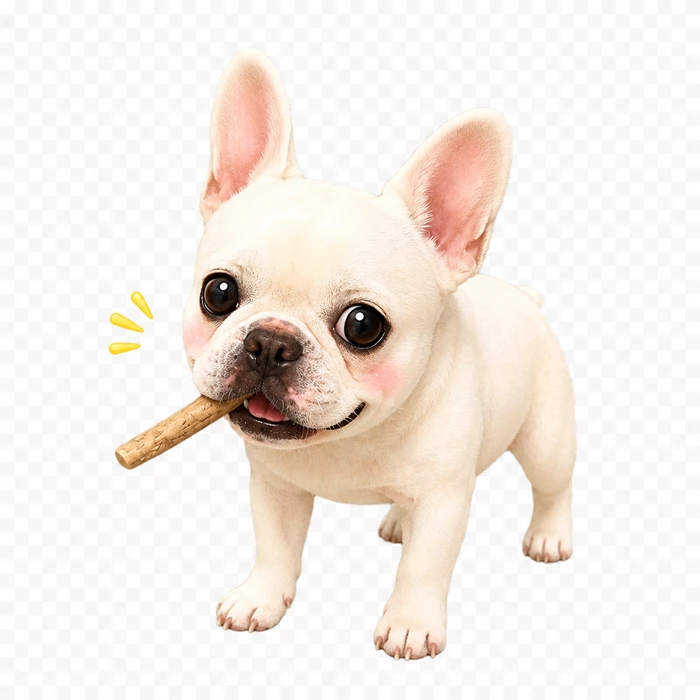
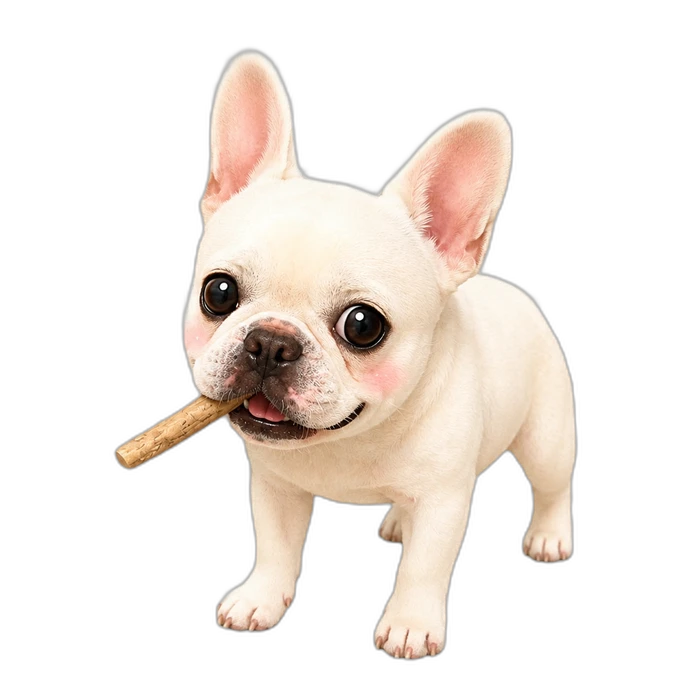
はみがき・IKEA・おるすばん(新規SSRアイテム)追加、画像名ズレ修正 (#144)
* はみがき画像の透過抜けを修正

元画像がRGB(アルファなし)のまま保存されており、未取得時のbrightness(0)
シルエット処理で画像全体が真っ黒な四角になっていた。背景除去して
透過PNG化した上でwebpに保存し直した。

* Add IKEA / おるすばん items with new くみたてボーナス and 落下速度アップ skills

- IKEA (SSR): catching extends a window (stacking, no cap) during
  which any catch increments a counter; on expiry, count x10pt is
  awarded at once
- おるすばん (SSR): timed fall-speed boost, reusing the existing
  fall-speed ref shared with interior_kinoko_azubee

---------

diff --git a/src/components/frenchie-catch-game.tsx b/src/components/frenchie-catch-game.tsx
@@ -83,7 +83,7 @@ const MYSTERY_SKILL_ITEM_IDS = [
   "toy_paw_macaron", "food_strawberry_roll_cake", "toy_star_wan_wand", "interior_sleepy_moon",
   "interior_spring_flower_wreath", "other_sparkle_rope_crown", "other_nakayoshi_azubee",
   "other_kamunayo", "hiking_frenchie", "snow_frenchie", "summer_frenchie", "interior_kinoko_azubee",
-  "other_komochi", "other_azuki", "other_kobee", "other_hamigaki",
+  "other_komochi", "other_azuki", "other_kobee", "other_hamigaki", "other_ikea", "other_orusuban",
 ];
 
 /** アイテムごとのLv1〜5パラメータ（item_skill_levels_colored.xlsxの「スキル一覧」シート通り） */
@@ -145,6 +145,9 @@ const LV = {
   KOBEE_SEC: [8, 9, 11, 13, 16],
   HAMIGAKI_SEC: [0, 2, 3, 4, 5],
   HAMIGAKI_PT: [0, 0, 10, 15, 20],
+  IKEA_SEC: [4, 5, 6, 7, 8],
+  ORUSUBAN_SEC: [5, 6, 7, 8, 10],
+  ORUSUBAN_FALL: [1.6, 1.8, 2, 2.2, 2.5],
 } as const;
 const POINTS: Record<FrenchieCatchItem["rarity"], number> = { N: 10, R: 20, SR: 40, SSR: 70, UR: 100 };
 const RARITY_FALL_SPEED: Record<FrenchieCatchItem["rarity"], number> = { N: 1, R: 1.08, SR: 1.18, SSR: 1.32, UR: 1.5 };
@@ -253,6 +256,8 @@ export function FrenchieCatchGame({ ownedItems }: { ownedItems: FrenchieCatchIte
   const fallSpeedBoostUntilRef = useRef(0);
   const fallSpeedValueRef = useRef(FALL_SPEED_BOOST);
   const poopSuppressUntilRef = useRef(0);
+  const ikeaUntilRef = useRef(0);
+  const ikeaCountRef = useRef(0);
   const feedbackTimerRef = useRef<ReturnType<typeof setTimeout> | null>(null);
   const impactTimerRef = useRef<ReturnType<typeof setTimeout> | null>(null);
 
@@ -291,6 +296,7 @@ export function FrenchieCatchGame({ ownedItems }: { ownedItems: FrenchieCatchIte
     if (now < magnetUntilRef.current) labels.push(magnetStrengthRef.current === "weak" ? "ミニマグネット発動中" : "マグネット発動中");
     if (now < fallSpeedBoostUntilRef.current) labels.push("落下速度アップ中");
     if (now < poopSuppressUntilRef.current) labels.push("うんち出現なし");
+    if (now < ikeaUntilRef.current) labels.push(`くみたて中 ${ikeaCountRef.current}個`);
     if (now < boxWideUntilRef.current) labels.push(`ダンボール×${boxWideScaleRef.current}拡大中`);
     if (urBoostRef.current > 0) labels.push(`UR出現率+${Math.min(urBoostRef.current, UR_BOOST_MAX)}`);
     setActiveEffects(labels);
@@ -486,6 +492,24 @@ export function FrenchieCatchGame({ ownedItems }: { ownedItems: FrenchieCatchIte
         poopSuppressUntilRef.current = 0;
         timedEffectChanged = true;
       }
+      if (ikeaUntilRef.current > 0 && now >= ikeaUntilRef.current) {
+        ikeaUntilRef.current = 0;
+        const ikeaCount = ikeaCountRef.current;
+        ikeaCountRef.current = 0;
+        if (ikeaCount > 0) {
+          const ikeaBonus = ikeaCount * 10;
+          scoreRef.current += ikeaBonus;
+          setScore(scoreRef.current);
+          setFeedback({ name: "くみたてボーナス", points: ikeaBonus, effect: `くみたて完成！+${ikeaBonus}pt` });
+          setBoxBounce(true);
+          if (feedbackTimerRef.current) clearTimeout(feedbackTimerRef.current);
+          feedbackTimerRef.current = setTimeout(() => {
+            setFeedback(null);
+            setBoxBounce(false);
+          }, 900);
+        }
+        timedEffectChanged = true;
+      }
       if (timedEffectChanged) refreshEffectStatus(now);
 
       const breakCombo = (entity: Entity) => {
@@ -635,6 +659,11 @@ export function FrenchieCatchGame({ ownedItems }: { ownedItems: FrenchieCatchIte
             const multiplier = Math.max(timedMultiplier, nextMultiplier);
             let points = Math.round((basePoints + pendingBonus) * multiplier);
             let effectLabel: string | undefined;
+
+            if (now < ikeaUntilRef.current) {
+              ikeaCountRef.current += 1;
+              statusChanged = true;
+            }
 
             const isMystery = entity.itemId === MYSTERY_ITEM_ID;
             const skillId = isMystery
@@ -881,6 +910,22 @@ export function FrenchieCatchGame({ ownedItems }: { ownedItems: FrenchieCatchIte
                 statusChanged = true;
                 break;
               }
+              case "other_ikea": {
+                const addSec = LV.IKEA_SEC[lv]!;
+                const base = now < ikeaUntilRef.current ? ikeaUntilRef.current : now;
+                ikeaUntilRef.current = base + addSec * 1000;
+                effectLabel = `くみたて中 +${addSec}秒${lvTag}`;
+                statusChanged = true;
+                break;
+              }
+              case "other_orusuban": {
+                const orusubanSec = LV.ORUSUBAN_SEC[lv]!;
+                fallSpeedBoostUntilRef.current = now + orusubanSec * 1000;
+                fallSpeedValueRef.current = LV.ORUSUBAN_FALL[lv]!;
+                effectLabel = `${orusubanSec}秒間 落下速度×${LV.ORUSUBAN_FALL[lv]}${lvTag}`;
+                statusChanged = true;
+                break;
+              }
               default:
                 break;
             }
@@ -1034,6 +1079,8 @@ export function FrenchieCatchGame({ ownedItems }: { ownedItems: FrenchieCatchIte
     fallSpeedBoostUntilRef.current = 0;
     fallSpeedValueRef.current = FALL_SPEED_BOOST;
     poopSuppressUntilRef.current = 0;
+    ikeaUntilRef.current = 0;
+    ikeaCountRef.current = 0;
     setEntities([]);
     setBoxX(50);
     setScore(0);

diff --git a/src/lib/gacha/prizes.ts b/src/lib/gacha/prizes.ts
@@ -73,6 +73,8 @@ export const GACHA_PRIZES: readonly GachaPrize[] = [
   { id: "other_kobee", name: "こびー", rarity: "UR", type: "item", pool: "regular", image: "/collection/items/4FA70BBA-6CBA-42B2-9A96-4B07AFDF56E0.png" },
   { id: "other_kamunayo", name: "かむなよ", rarity: "SSR", type: "item", pool: "regular", image: "/collection/items/7FEA86AD-6904-4151-BEA8-5A33F7C97B01.png" },
   { id: "other_hamigaki", name: "はみがき", rarity: "SSR", type: "item", pool: "regular", image: "/collection/items/hamigaki.webp" },
+  { id: "other_ikea", name: "IKEA", rarity: "SSR", type: "item", pool: "regular", image: "/collection/items/ikea.webp" },
+  { id: "other_orusuban", name: "おるすばん", rarity: "SSR", type: "item", pool: "regular", image: "/collection/items/orusuban.webp" },
   { id: "other_sparkle_rope_crown", name: "きらきらロープクラウン", rarity: "SR", type: "item", pool: "regular", image: "/collection/items/sparkle-rope-crown.webp" },
 
   // --- 通常ガチャ：おでかけ小物 ----------------------------------------

diff --git a/src/lib/collection/items.ts b/src/lib/collection/items.ts
@@ -150,6 +150,8 @@ const CURATED_ITEMS: readonly CollectionItem[] = [
   { id: "other_kobee", name: "こびー", image: "/collection/items/4FA70BBA-6CBA-42B2-9A96-4B07AFDF56E0.png", category: "other", series: null, rarity: "UR" },
   { id: "other_kamunayo", name: "かむなよ", image: "/collection/items/7FEA86AD-6904-4151-BEA8-5A33F7C97B01.png", category: "other", series: null, rarity: "SSR" },
   { id: "other_hamigaki", name: "はみがき", image: "/collection/items/hamigaki.webp", category: "other", series: null, rarity: "SSR" },
+  { id: "other_ikea", name: "IKEA", image: "/collection/items/ikea.webp", category: "other", series: null, rarity: "SSR" },
+  { id: "other_orusuban", name: "おるすばん", image: "/collection/items/orusuban.webp", category: "other", series: null, rarity: "SSR" },
 
   // --- 通常図鑑：おでかけ小物 ------------------------------------------
   { id: "other_yellow_rain_boots", name: "きいろのながぐつ", image: "/collection/items/yellow-rain-boots.webp", category: "other", series: null, rarity: "N" },
